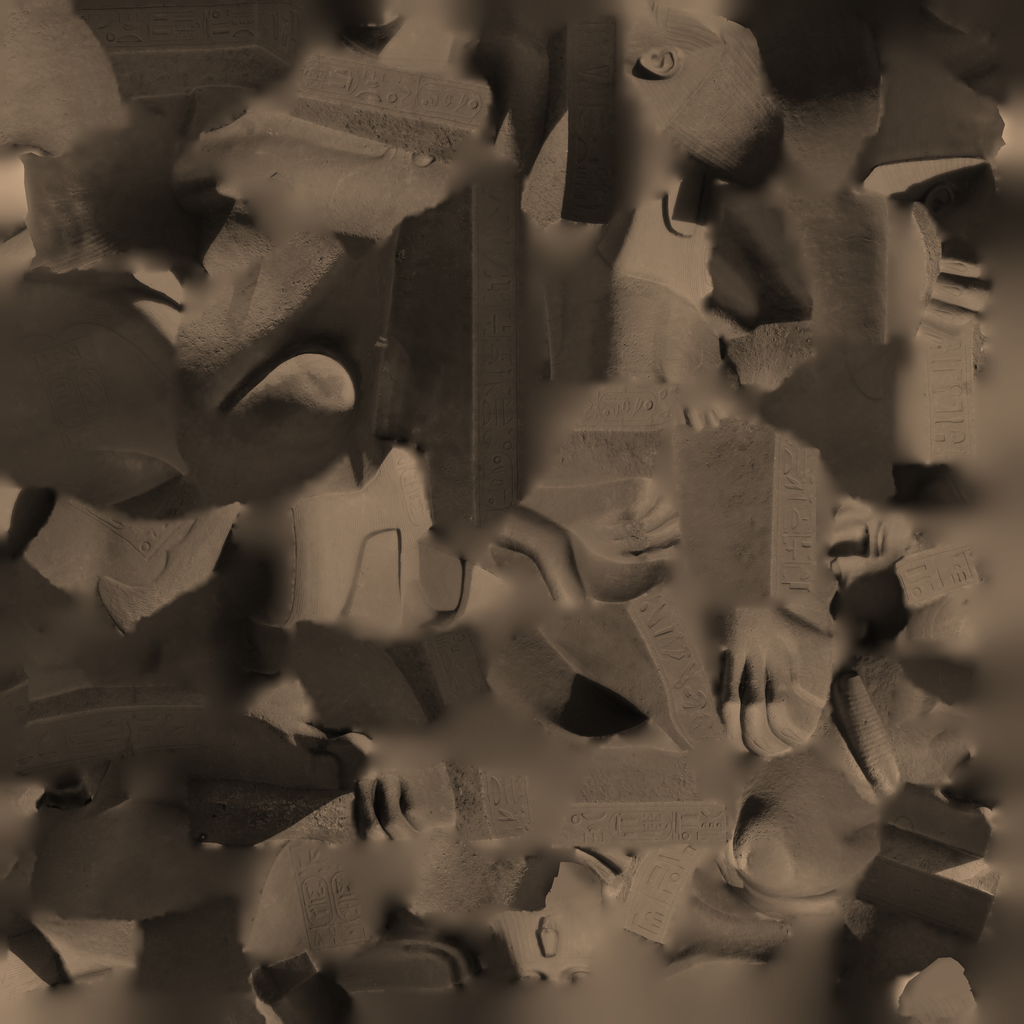
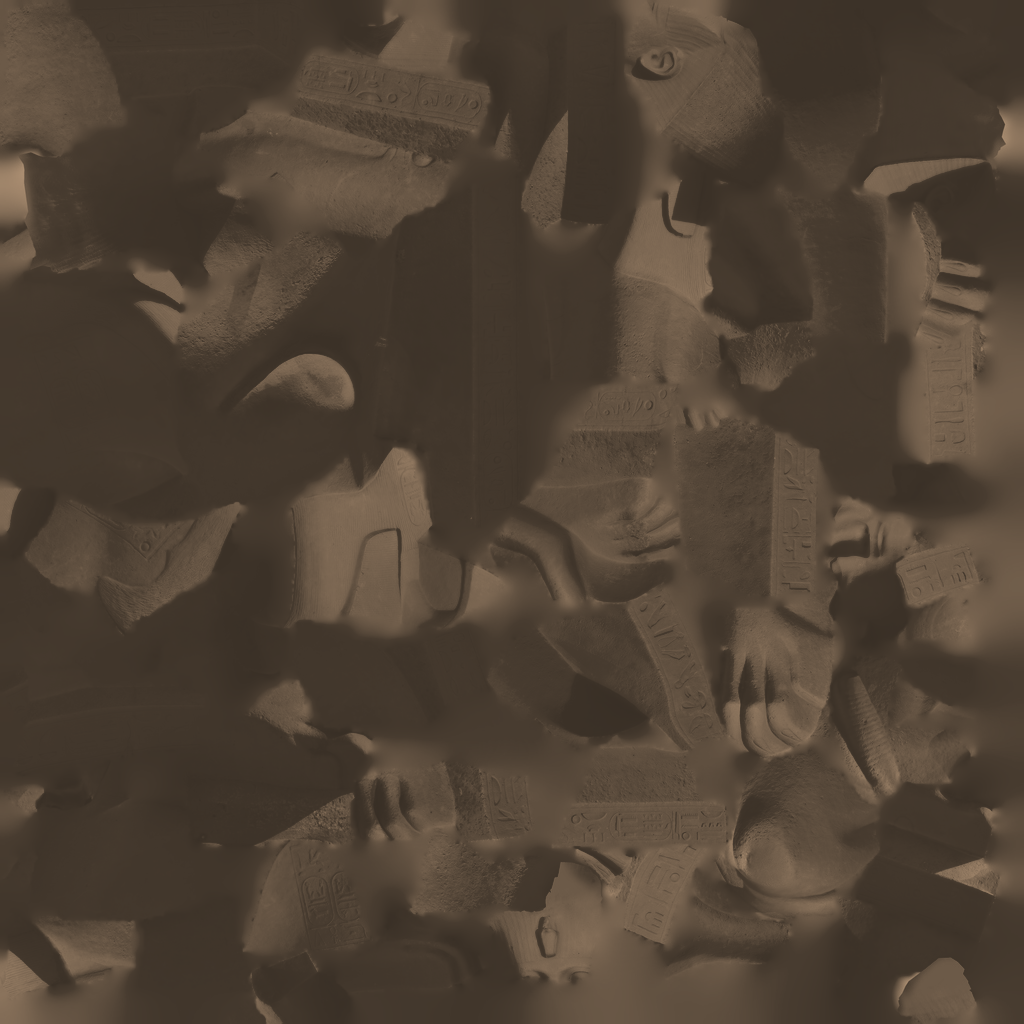
Soften the shadows on the sphinx
The scan's photo texture carried baked-in shading on the head; the converter now compresses baked darkness to 25%. Level 1 gets a shadowless desert bounce light (energy 0.6, opposite the sun) so sun-averted faces read as shaded stone instead of near-black. The path now runs into the sphinx passage up to the exit opening. Version 1.0.115.

diff --git a/tools/blender/make_sphinx_statue.py b/tools/blender/make_sphinx_statue.py
@@ -179,8 +179,14 @@ gray = px[:, :3] @ np.array([0.299, 0.587, 0.114], dtype=np.float32)
 # Normalize against the statue's surface only: the atlas contains dark
 # unused padding that would drag the mean down and leave the visible
 # texels far brighter than the tint.
-surface = gray[gray > 0.15]
-gray /= max(surface.mean(), 1e-6)
+mask = gray > 0.15
+gray /= max(gray[mask].mean(), 1e-6)
+# The photos baked real-world shading into the albedo (the back of the
+# head is nearly black and reads like a wrong shadow in game). Compress
+# everything below the mean to 45% of its darkness — deep baked shade
+# flattens hard, highlights stay — then re-center on the tint.
+gray = np.where(gray < 1.0, 1.0 - (1.0 - gray) * 0.25, gray).astype(np.float32)
+gray /= max(gray[mask].mean(), 1e-6)
 for c in range(3):
     px[:, c] = np.clip(gray * tint[c], 0.0, 1.0)
 tinted = bpy.data.images.new("SphinxSandstone", src_img.size[0], src_img.size[1], alpha=False)